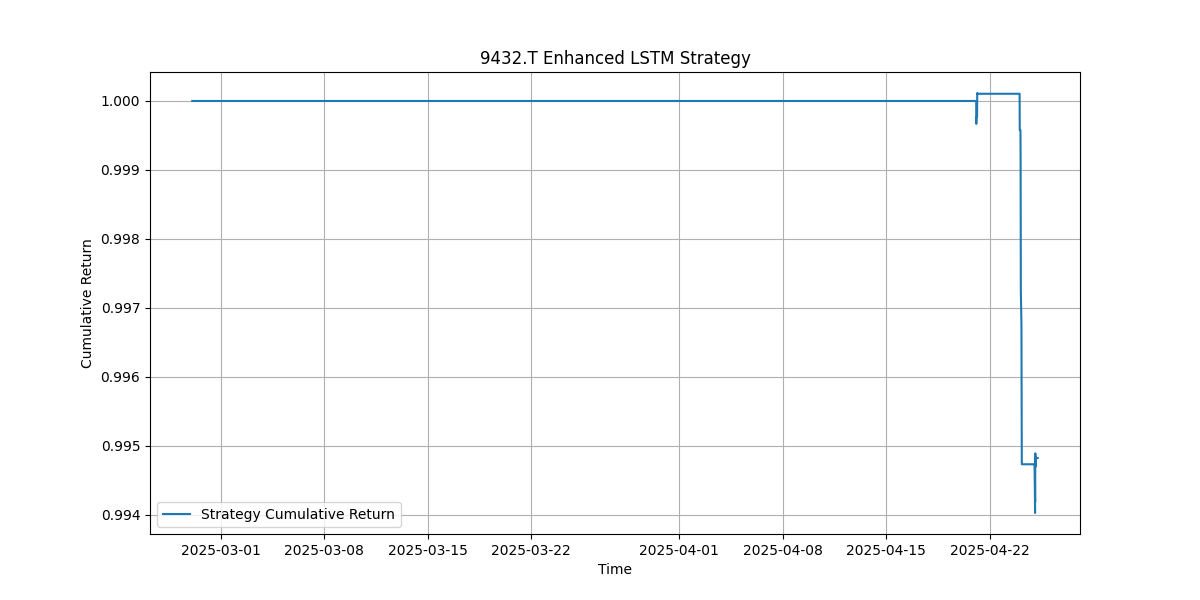
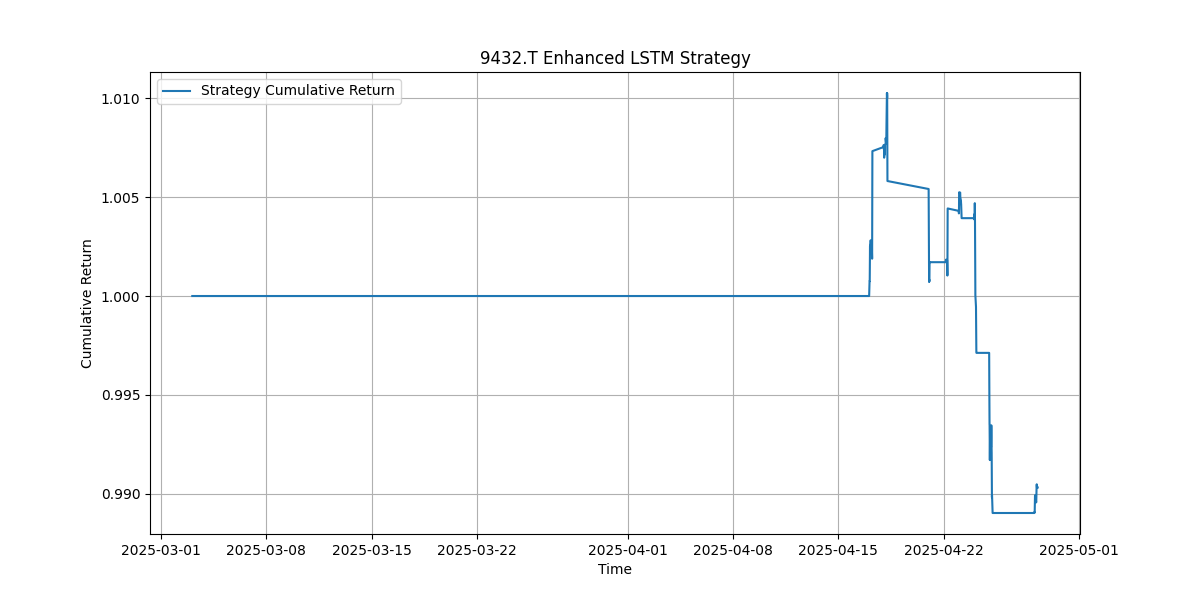
Update trading results and enhance LSTM model parameters; adjust data download dates and improve scaling techniques

diff --git a/train_nikkei_lstm_fixed.py b/train_nikkei_lstm_fixed.py
@@ -12,7 +12,7 @@ import matplotlib.pyplot as plt
 SEQUENCE_LENGTH = 100
 LOOKAHEAD_PERIOD = 10
 SCALING_FACTOR = 200
-THRESHOLD = 0.2
+THRESHOLD = 0.05  # Reduced to allow more trades
 MAX_POSITION = 2.0
 TRANSACTION_COST = 0.001
 
@@ -88,8 +88,13 @@ def main():
     print(f"Future_Return distribution:\n{data['Future_Return'].describe()}")
     
     # データ準備
-    scaler = MinMaxScaler()
-    scaled_data = scaler.fit_transform(data[FEATURES + ['Future_Return']])
+    feature_data = data[FEATURES].values
+    target_data = data[['Future_Return']].values
+    feature_scaler = MinMaxScaler()
+    target_scaler = MinMaxScaler(feature_range=(-1, 1))  # Increase target variance
+    feature_data = feature_scaler.fit_transform(feature_data)
+    target_data = target_scaler.fit_transform(target_data)
+    scaled_data = np.hstack([feature_data, target_data])
     
     print("シーケンスデータを作成中...")
     X, y, seq_indices = create_sequences(scaled_data, SEQUENCE_LENGTH, LOOKAHEAD_PERIOD)
@@ -110,19 +115,19 @@ def main():
     # LSTMモデル
     print("モデルを構築中...")
     model = Sequential([
-        LSTM(64, return_sequences=True, input_shape=(SEQUENCE_LENGTH, len(FEATURES))),
+        LSTM(128, return_sequences=True, input_shape=(SEQUENCE_LENGTH, len(FEATURES))),  # Increased capacity
         Dropout(0.2),
-        LSTM(32),
+        LSTM(64),
         Dropout(0.2),
         Dense(1)
     ])
     model.compile(optimizer='adam', loss='mse')
     
     print("モデルを学習中...")
-    early_stopping = EarlyStopping(monitor='val_loss', patience=5, restore_best_weights=True)
+    early_stopping = EarlyStopping(monitor='val_loss', patience=10, restore_best_weights=True)  # Increased patience
     history = model.fit(
         X_train, y_train,
-        epochs=30,
+        epochs=50,  # Increased epochs
         batch_size=32,
         validation_data=(X_test, y_test),
         callbacks=[early_stopping],

diff --git a/trade_lstm_enhanced.py b/trade_lstm_enhanced.py
@@ -11,7 +11,7 @@ import pandas_ta as ta
 # データ取得
 ticker = "9432.T"  
 try:
-    data = yf.download(ticker, interval="5m", start="2025-02-27", end="2025-04-27")
+    data = yf.download(ticker, interval="5m", start="2025-03-01", end="2025-04-29")
     if data.empty:
         raise ValueError("データが取得できませんでした。")
     if isinstance(data.columns, pd.MultiIndex):
